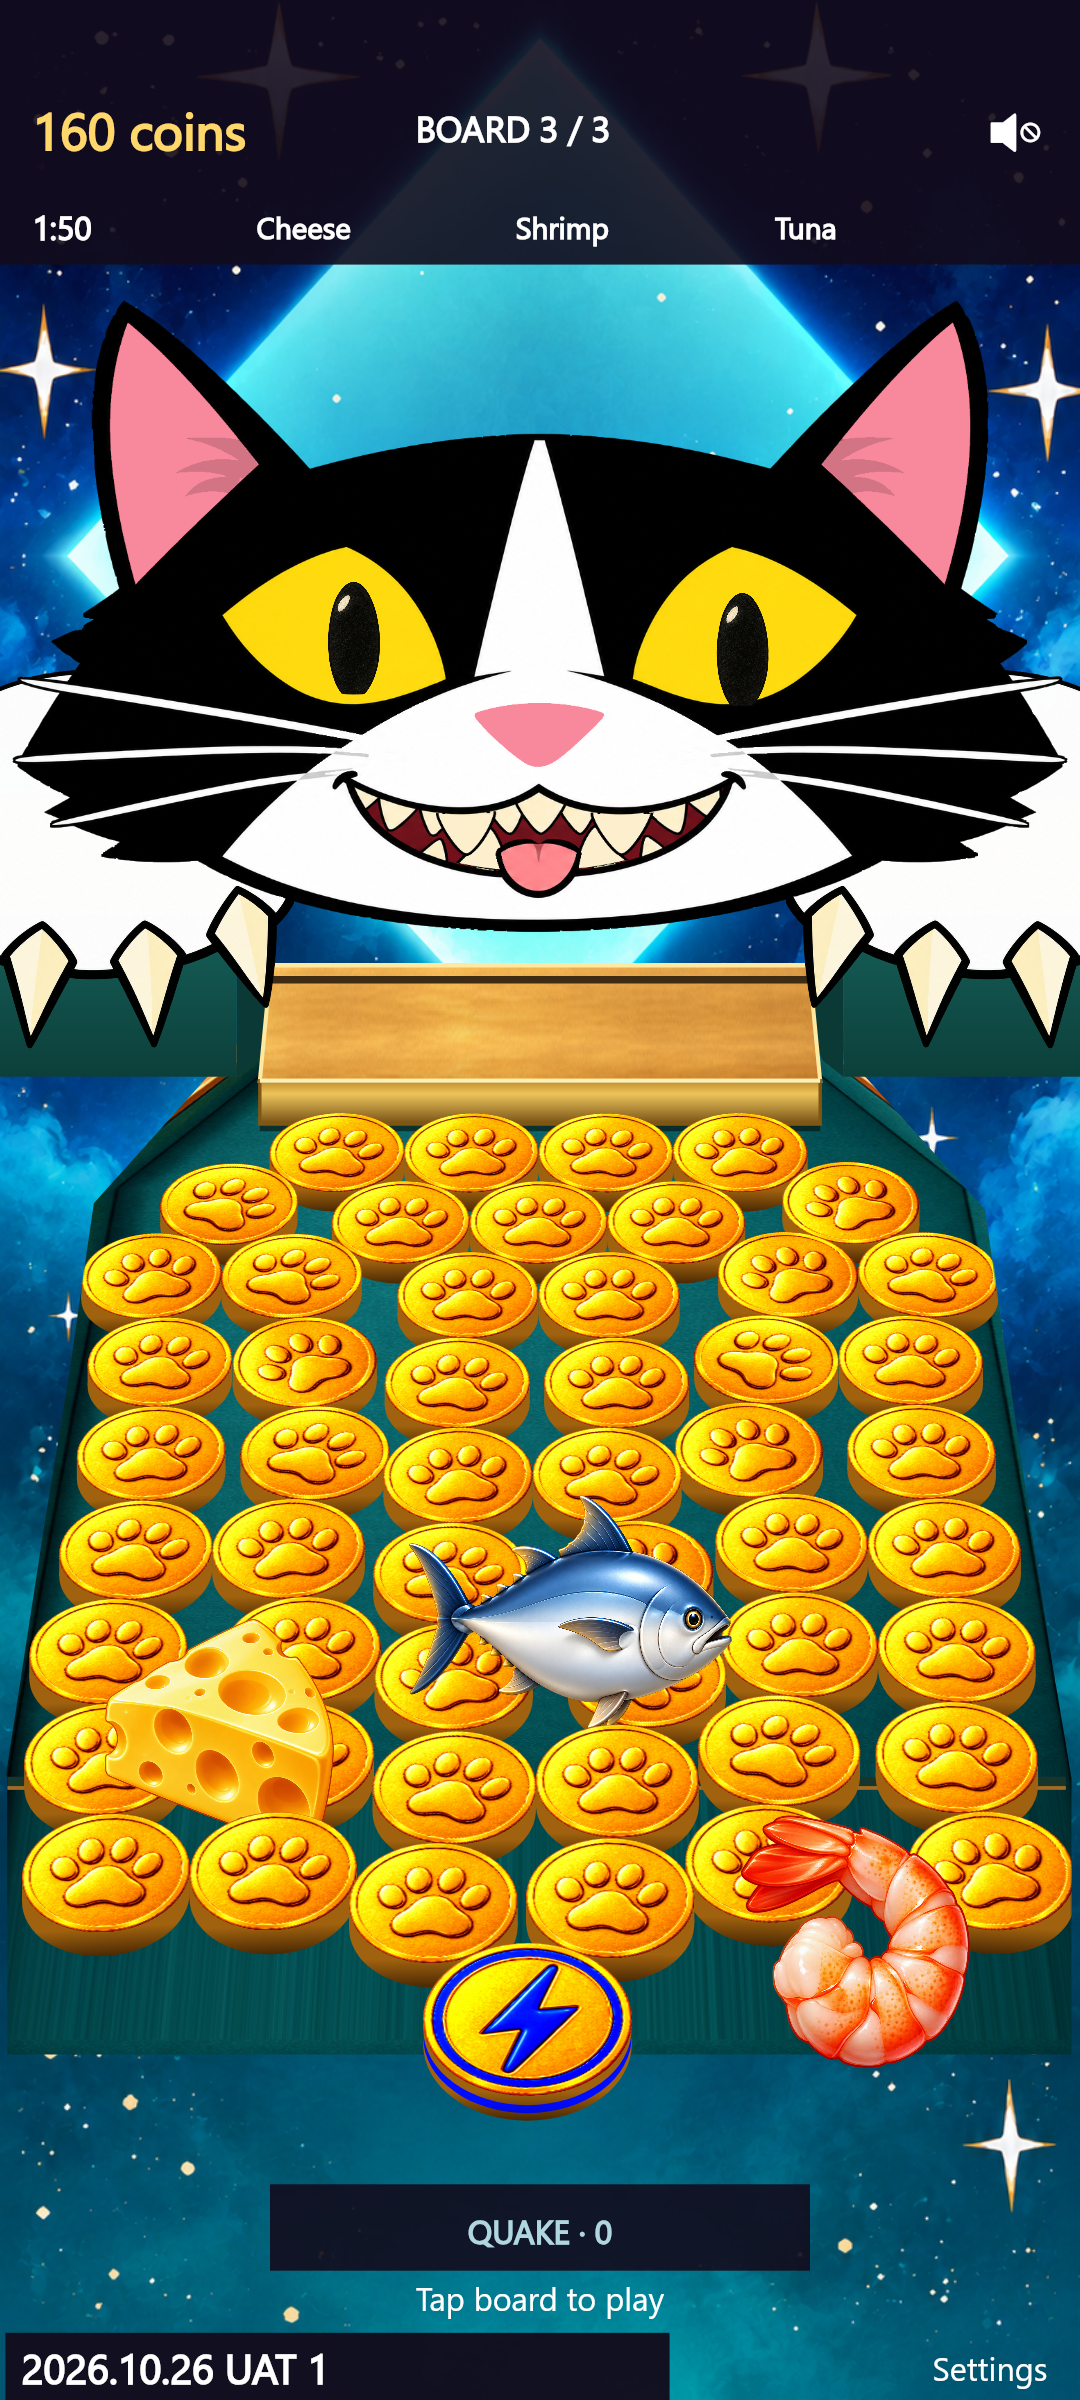
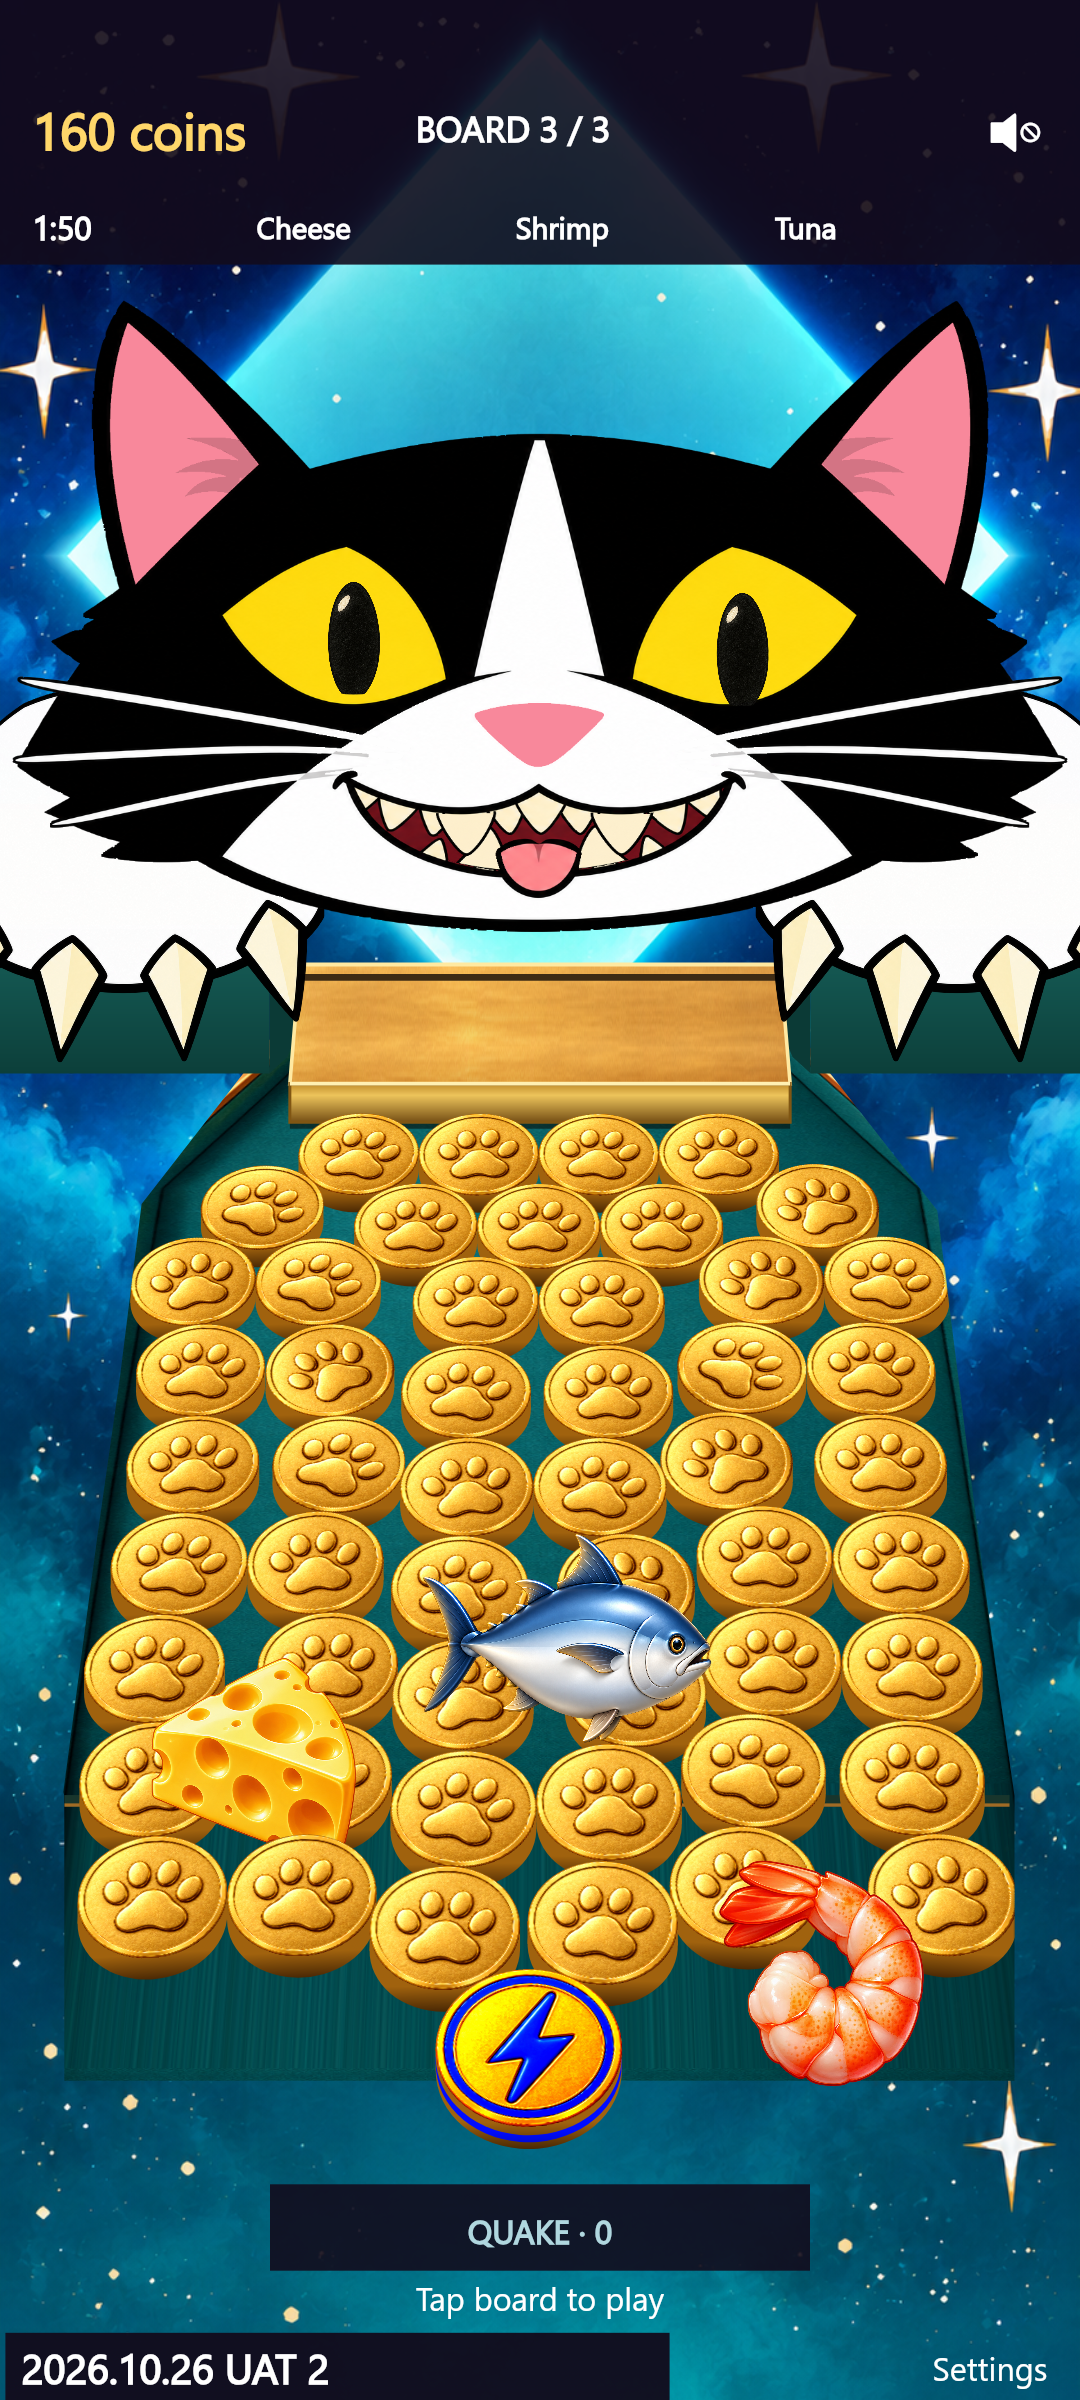
CP-21: UAT 2 - ledge fall-through fix, gold colour C, camera tilt 0.75
Tapped coins start their physical fall from the pre-lock view's screen
top again; the lower start let about 1 in 10 pass through the moving
ledge. Coins a lighter, softer gold (contrast 1.3, saturation 0.9);
camera tilt 0.75 with table front width 350, 8 rows showing.

diff --git a/index.html b/index.html
@@ -200,7 +200,7 @@ let holding = false, holdPos = aim, taps = [], dropTimer = 0, saveTimer = 0, las
 // test-build readout at the bottom of the screen: physics time per step (ms) and frames per second, smoothed
 const perf = { step: 0, fps: 60 };
 // when this version was published (publish_game.ps1 fills it in), shown in the readout
-const BUILD = '2026.10.26 UAT 1';
+const BUILD = '2026.10.26 UAT 2';
 
 function initPhysics() {
   // the table tilts gently down toward the player (TILT_DEG): coins at rest stay put, but a push moves them
@@ -805,7 +805,7 @@ function tryDrop(at=aim) {
  const lipY=220,lipHeight=(p.y-exit.y)/(LIFT*p.s);
  // Start the physical fall at the existing screen-entry point. The display lift is then zero,
  // avoiding its 0.28-second slowdown as the coin crosses the rear rail.
- const entry=screenOf(x,depth,0),entryTop=-VIEW.y/VIEW.zy-14;
+ const entry=screenOf(x,depth,0),entryTop=VIEW.dropTop??(-VIEW.y/VIEW.zy-14);
  const entryHeight=(entry.y-entryTop)/(LIFT*entry.s);
  const deliveryGravity=DROP_GRAVITY*(entryHeight-TONGUE_H)/(lipHeight-TONGUE_H);
  const tip={x:Math.sin(exit.tip/2),y:0,z:0,w:Math.cos(exit.tip/2)};
@@ -1570,7 +1570,7 @@ const WRIST = { x: 46, y: 1418 }; // left wrist in picture pixels; the right one
 function newCanvas(w, h) { const c = document.createElement('canvas'); c.width = w; c.height = h; return c; }
 
 // CP-21: contrast (around the gold's mid-tone) and saturation boost for a coin sprite, applied once.
-const COIN_CONTRAST=1.6,COIN_SATURATE=1.25;
+const COIN_CONTRAST=1.3,COIN_SATURATE=0.9;
 function coinClarity(cv,k,sat){const g=cv.getContext('2d'),im=g.getImageData(0,0,cv.width,cv.height),d=im.data,w=cv.width,src=d.slice();
  // soften the satin grain a little first (half a 3x3 average), so the boost doesn't make it speckly
  for(let y=1;y<cv.height-1;y++)for(let x=1;x<w-1;x++){const i=(y*w+x)*4;if(!src[i+3])continue;for(let c=0;c<3;c++){let t=0;for(let j=-1;j<=1;j++)for(let m=-1;m<=1;m++)t+=src[i+(j*w+m)*4+c];d[i+c]=(src[i+c]+t/9)/2;}}
@@ -1598,7 +1598,7 @@ async function loadArt() {
 const VIEW = { z: 1, zy: 1, y: 0 };
 // CP-21: zoom in until the table's front edge is FRONT_MARGIN above the buttons (the ears stay just under the HUD).
 // CAM_ZOOM_MAX caps the zoom (a partial zoom leaves some space below the table).
-const HEAD_Z=0.94,CHIN_Y=215,TABLE_W=392,HEAD_DROP=0; // HEAD_DROP: head lowered over the back of the pusher (game units) // CP-21: head size on screen (whole cat in frame), the head row on the table's back edge, widest table front
+const HEAD_Z=0.94,CHIN_Y=215,TABLE_W=350,HEAD_DROP=0; // HEAD_DROP: head lowered over the back of the pusher (game units) // CP-21: head size on screen (whole cat in frame), the head row on the table's back edge, widest table front
 const CAM_FILL=true,CAM_ZOOM_MAX=9,FRONT_MARGIN=18;
 const MACHINE_TOP = 34, MACHINE_BOTTOM = 640; // tips of the ears and bottom of the paws, in game units
 function fitView() {
@@ -1610,6 +1610,8 @@ function fitView() {
  // left over is split above the head and below the table.
  VIEW.zy=Math.max(z,Math.min((bottom-FRONT_MARGIN-chin)/(__front1-CHIN_Y),TABLE_W/(2*__spanFront)*z/z0));VIEW.z=VIEW.zy*z0/z;
  const spare=bottom-FRONT_MARGIN-(chin+(__front1-CHIN_Y)*VIEW.zy);VIEW.y=chin-CHIN_Y*VIEW.zy;VIEW.headDown=0; // CP-21: scene up to the HUD
+ // CP-21: the physical drop starts from the pre-lock view's screen top (coins fell through the ledge from lower)
+ {const f1=__top+(__front-__top)*0.65,zy=Math.max(z,Math.min((bottom-FRONT_MARGIN-chin)/(f1-CHIN_Y),330/(2*__spanFront)*z/z0)),sp=bottom-FRONT_MARGIN-(chin+(f1-CHIN_Y)*zy);VIEW.dropTop=-(chin+sp/2-CHIN_Y*zy)/zy-14;} // (camera tilt 0.65, table width 330)
 }
 function screenToGameX(sx) { return (sx - 200) / VIEW.z + 200; }
 // The picture is also drawn ART_ZX times wider than it is (around the centre), so the cat's cheeks reach the
@@ -1926,7 +1928,7 @@ function __plane(y){const s=depthScale(y),v=(s-__sBack)/(1-__sBack),py=__top+(__
 // The painted table is re-projected row by row to this camera (__warpTable), so coins, rails and pusher stay in register.
 const CAM_K=Math.max(.01,0.25),__sBack0=__sBack,__spanBack0=__spanBack,__camSB=1/(1+CAM_K);
 // CAM_TILT: how tall the table looks on screen (1 = step 1). Lower = a lower camera, so coins look more side-on.
-const CAM_TILT=0.65,__front1=__top+(__front-__top)*CAM_TILT;
+const CAM_TILT=0.75,__front1=__top+(__front-__top)*CAM_TILT;
 const __camSpanBack=__spanFront-(__spanFront-__spanBack0)*(1-__camSB)/(1-__sBack0);
 function __camS(u){return 1/(1+CAM_K*(1-u));}
 __plane=function(y){const s=__camS((y-T.BACK)/(640-T.BACK)),v=(s-__camSB)/(1-__camSB),py=__top+(__front1-__top)*v,gx=(__camSpanBack+(__spanFront-__camSpanBack)*v)/170,ds=CAM_K/(640-T.BACK)*s*s,dy=(__front1-__top)*ds/(1-__camSB),dg=(__spanFront-__camSpanBack)*ds/(170*(1-__camSB));return {py,gx,dy,dg};};

diff --git a/SPEC.md b/SPEC.md
@@ -1,4 +1,4 @@
-# CP-21 PUBLISHED — 20261026100613 / APK4 (2026.10.26 UAT 1)
+# CP-21 PUBLISHED — 20261026113204 / APK4 (2026.10.26 UAT 2; UAT 1 was 20261026100613)
 
 Layout lock. The locked numbers are in "Locked layout (CP-21)" below and supersede older board geometry. Source: work/cp21/release.html. Report: tickets/CP-21.md. Phone UAT pending.
 
@@ -126,14 +126,15 @@ Layout first, art second: new art fills this layout and does not change it. Temp
 
 - **Layers:** the background is fixed to the screen (cover-fit; never moves or scales with the scene). The cat, mitts, ledge, table and coins form the scene, placed by the view. Table dimensions are locked; the table's look may change per cat. Cat head and paw sizes are locked.
 - **Canvas and view:** 400 game units wide. The cat's ear tips sit just under the HUD (HUD bottom + 8 px); the scene is anchored at the top, so any spare height is below the table, above the buttons.
-- **Camera:** flatter, lower camera. CAM_K 0.25 (how much the table narrows toward the back), CAM_TILT 0.65. Row size on screen is that of the 640-deep table: a longer table adds rows further down, never squeezes them.
-- **Table:** T = {L 30, R 370, BACK 190, FRONT 760}. Front edge drawn at the full screen width (TABLE_W 392). Narrow back: 110 either side of centre up to depth 225, widening to full width at 315, giving rows of 4, 4, 5, 6 coins, then full width. No wood rails. Fallback on file: FRONT 720 (one row fewer), `work/cp21/layout-7rows-fallback.html`.
+- **Camera:** flatter, lower camera. CAM_K 0.25 (how much the table narrows toward the back), CAM_TILT 0.75 (UAT 2; UAT 1 was 0.65, Jenny found the coins too slanted; UAT 3's view was steeper). Row size on screen is that of the 640-deep table: a longer table adds rows further down, never squeezes them.
+- **Drop:** a tapped coin's physical fall starts from the screen top the view had before the lock (tilt 0.65, table width 330), whatever the layout. A lower, slower start let about 1 in 10 coins pass through the moving ledge (UAT 1 bug).
+- **Table:** T = {L 30, R 370, BACK 190, FRONT 760}. Front edge drawn at TABLE_W 350 (UAT 2; 392 = full screen width in UAT 1). Narrow back: 110 either side of centre up to depth 225, widening to full width at 315, giving rows of 4, 4, 5, 6 coins, then full width. No wood rails. Fallback on file: FRONT 720 (one row fewer), `work/cp21/layout-7rows-fallback.html`.
 - **Start:** ordered single layer of straight rows from just in front of the pulled-back pusher to 70 units (START_CLEAR) from the front edge: 9 rows, 8 showing with the pusher forward; 51 coins on the table at the start on every board. No towers on any board (Board 3's towers dropped; tower topple physics kept). Prizes and Board 3's Quake coin rest on top of the rows; their depths moved 120 units forward with the longer table.
 - **Cat:** head drawn at HEAD_Z 0.94 of the screen fit, chin on the table's back edge (CHIN_Y 215). Head art unchanged.
 - **Mitts:** "tucked" pose for Waiting: mitts behind the cheeks, claws hooked 30 units over the inner front corner of each armrest (MITT_HOOK 30, MITT_D 228, MITT_LIFT 30, MITT_W 182), no cuffs or black arms showing. Teal/brass armrests either side of the narrow back (ARM_H 70, ARM_FRONT 240). "Reaching" (mitts out at the corners with arms) is kept as a second pose for later use.
-- **Coins:** approved big-paw face with contrast 1.6 / saturation 1.25; drawn twice as thick as the physics (COIN_LOOK 2); dark gold sides, bright faces. COIN_R 26 (physics unchanged).
+- **Coins:** approved big-paw face, colour C: contrast 1.3 / saturation 0.9, a lighter, softer gold (UAT 2; UAT 1 was 1.6 / 1.25, too yellow); drawn twice as thick as the physics (COIN_LOOK 2); dark gold sides, bright faces. COIN_R 26 (physics unchanged).
 - **Quake coin:** 20% wider than a paw coin (QUAKE_R 1.2, physics too), same thickness as paw coins, dark gold side with a blue band matching the face's dark blue.
-- **Balance (desktop, Oct 26):** 18/18 no-power wins over 3 boards, 3 seeds, 0.22/0.4 s taps (work/cp21/wins-layout-8rows.json).
+- **Balance (desktop, Oct 26, UAT 2):** 18/18 no-power wins over 3 boards, 3 seeds, 0.22/0.4 s taps; 0 of 720 taps fall through the ledge (tickets/CP-21-evidence/wins-uat2.json, fallthrough-uat2.log).
 - **Next (art pass, not layout):** rounder cat head or chin fluff to fill the gap between chin and ledge; ledge look; extended felt streaks; Jenny prefers the Rest face to the Waiting face, so Waiting will change later.
 
 ## Coin entry and input

diff --git a/tickets/CP-21.md b/tickets/CP-21.md
@@ -1,6 +1,36 @@
 # CP-21 Board layout like iBear (mockups)
 
-Status: **Published to UAT: 2026.10.26 UAT 1 / APK4, numeric 20261026100613**, on Jenny's instruction "let's get this in UAT" (Oct 26). Phone UAT pending. CP-21 became the layout lock (Oct 26); locked numbers are in SPEC.md, "Locked layout (CP-21)". Everything from "Baseline and method" down is the earlier Codex mockup round (Oct 19), kept as history.
+Status: **Published to UAT: 2026.10.26 UAT 2 / APK4, numeric 20261026113204**, on Jenny's "yes" (Oct 26). Phone UAT pending. UAT 1 (20261026100613, "let's get this in UAT") failed phone UAT on the ledge; see "UAT 2" below. CP-21 became the layout lock (Oct 26); locked numbers are in SPEC.md, "Locked layout (CP-21)". Everything from "Baseline and method" down is the earlier Codex mockup round (Oct 19), kept as history.
+
+## UAT 2 (Oct 26)
+**Jenny's phone UAT of UAT 1:**
+- The layout looks better, but the coins were too slanted. She wanted something between UAT 1 and UAT 3.
+- The coin colour was too yellow: keep the new coins' thickness, paw size and edges, with a gold closer to UAT 3's.
+- Bug: a coin landing on the ledge could vanish into the table ([screenshot](../Screenshots/cp21-uat1-coin-sinks-at-ledge.webp)).
+
+**Ledge bug cause:**
+- Moving the scene up also moved the screen top that a tapped coin's physical fall starts from. Coins started lower and hit the moving ledge more slowly.
+- About 1 in 10 then passed through the ledge and the table. They were counted as falling off the front, which also flattered the UAT 1 win checks.
+- Fix: the physical drop starts from the pre-lock view's screen top (camera tilt 0.65, table width 330), whatever the layout.
+- Measured with `work/cp21/lost.cjs`, Board 1:
+  - UAT 1: 8 of 80 and 6 of 120 taps fell through.
+  - UAT 2: none, and none across all 720 taps on 3 boards at 2 tap speeds ([log](CP-21-evidence/fallthrough-uat2.log)).
+
+**Picks (Jenny):**
+- Colour C ([options](CP-21-evidence/claude-step26-coin-colour-options.png)): contrast 1.3, saturation 0.9.
+- Angle option 1 ([options](CP-21-evidence/claude-step27-coin-angle-options.png)): camera tilt 0.75, table front width 350, still 8 rows above the buttons.
+
+**Build:** the same command as UAT 1, with arg 8 = `0.75`, args 22–23 = `1.3 0.9` and arg 29 = `350`. The Quake coin's own colours are unchanged. UAT 1 source is kept in `work/cp21/uat1/`.
+
+**Validation:**
+- No-power win checks: 18/18 won ([results](CP-21-evidence/wins-uat2.json)). Coins used: Board 1 66–104 of 220, Board 2 64–89 of 160, Board 3 90–133 of 160.
+- Templates refreshed from UAT 2.
+
+**Publication:**
+- Game-only update; APK4 is kept.
+- Backup: `uat/backups/before-CP-21-UAT2-20261026113204`, verified.
+- Production JSON/APK and the UAT APK were unchanged.
+- Fresh OneDrive download: HTTP 200, same shared item, SHA-256 matches staged `5397f4d8…` ([cloud-verification.json](CP-21-evidence/cloud-verification.json), [publication.json](CP-21-evidence/publication.json)). The UAT 1 records are `*-uat1.json`.
 
 ## Layout lock (Claude, Oct 21–26)
 **Baseline:** published UAT 2026.10.17 UAT 3 (`work/cp21/baseline.html`, identical to `work/uat18/release.html`; UAT JSON hash matched the UAT-18 publication record).
